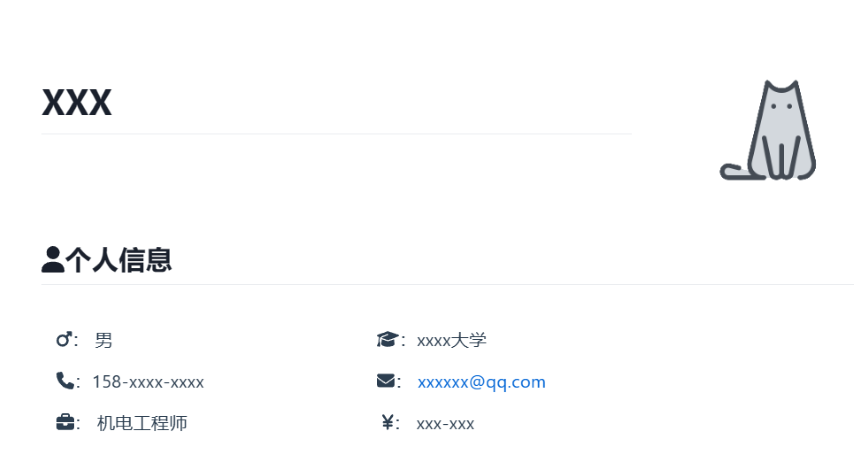
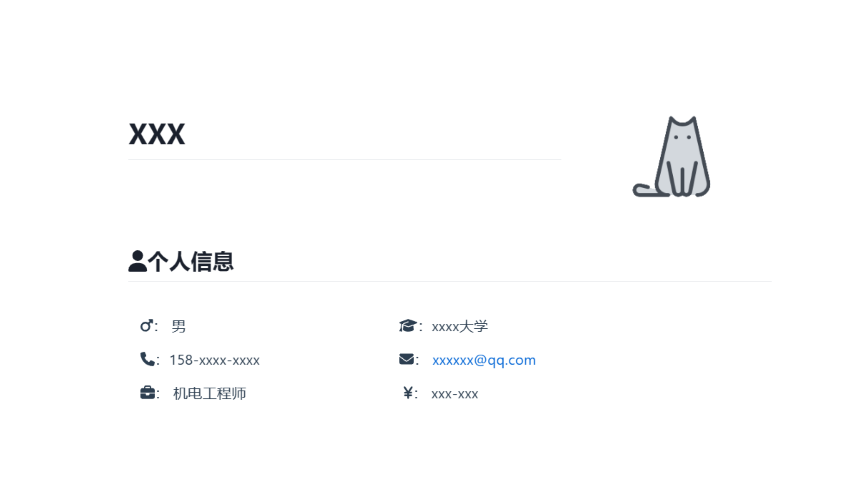
Site updated: 2023-09-21 13:10:40

diff --git a/2023/09/20/简历/index.html b/2023/09/20/简历/index.html
@@ -23,14 +23,14 @@
 <meta property="og:site_name" content="chenxw">
 <meta property="og:description" content="有东西被加密了">
 <meta property="og:locale" content="zh_CN">
-<meta property="og:image" content="http://example.com/img/resume/cover.jpg">
+<meta property="og:image" content="http://example.com/img/resume/cover.png">
 <meta property="article:published_time" content="2023-09-20T15:15:09.000Z">
-<meta property="article:modified_time" content="2023-09-21T04:55:10.006Z">
+<meta property="article:modified_time" content="2023-09-21T05:04:01.575Z">
 <meta property="article:author" content="CHEN XW">
 <meta property="article:tag" content="markdown">
 <meta property="article:tag" content="简历">
 <meta name="twitter:card" content="summary_large_image">
-<meta name="twitter:image" content="http://example.com/img/resume/cover.jpg">
+<meta name="twitter:image" content="http://example.com/img/resume/cover.png">
   
   
   
@@ -288,7 +288,7 @@
             
               
               <div class="hbe hbe-container" id="hexo-blog-encrypt" data-wpm="Oh, this is an invalid password. Check and try again, please." data-whm="OOPS, these decrypted content may changed, but you can still have a look.">
[2 lines of base64/hex data omitted]
   <div class="hbe hbe-content">
     <div class="hbe hbe-input hbe-input-default">
       <input class="hbe hbe-input-field hbe-input-field-default" type="password" id="hbePass">

diff --git a/index.html b/index.html
@@ -235,7 +235,7 @@
     
       <div class="col-12 col-md-4 m-auto index-img">
         <a href="/2023/09/20/%E7%AE%80%E5%8E%86/" target="_self">
-          <img src="/img/resume/cover.jpg" srcset="/img/loading.gif" lazyload alt="我的简历">
+          <img src="/img/resume/cover.png" srcset="/img/loading.gif" lazyload alt="我的简历">
         </a>
       </div>
     
